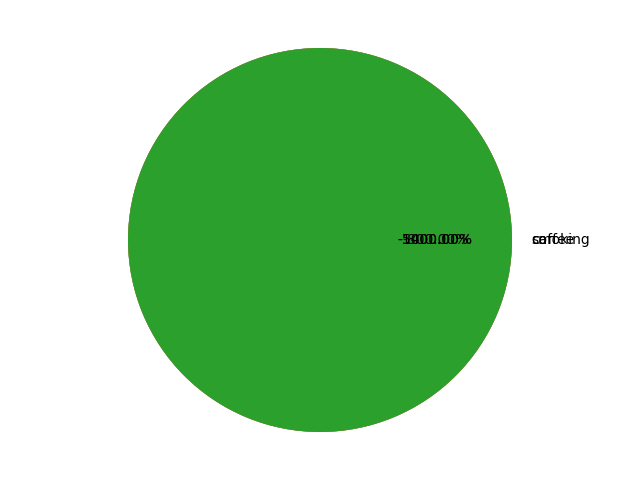
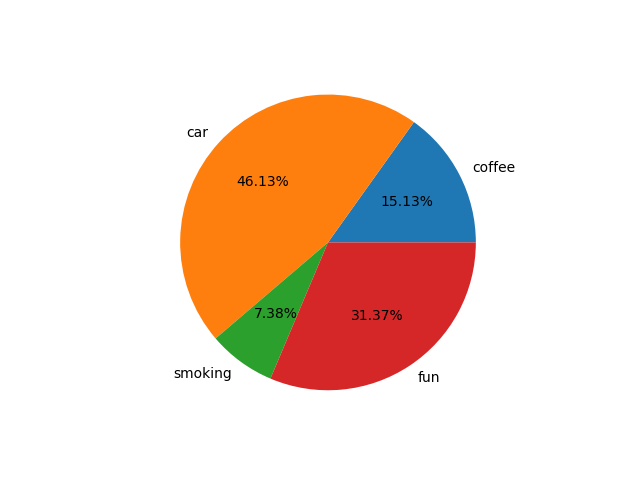
add Graph

diff --git a/app.py b/app.py
@@ -1,13 +1,15 @@
-from flask import Flask, jsonify, request, redirect, make_response, g
+import os
+from flask import Flask, jsonify, request, redirect, make_response
 from datetime import datetime, timedelta
 from werkzeug.security import generate_password_hash, check_password_hash
 import jwt
 import uuid
 from matplotlib import pyplot as plt
-from . import User, Transaction, application, db
+from __init__ import User, Transaction, application, db
 from middleware import token_required
 
-
+# Graph mode
+MODE = 4
 # ==================================================================================================
 # Entry Points
 # ==================================================================================================
@@ -73,7 +75,7 @@ def getAllUsers():
    return jsonify({'users': output}), 200
 
 
-@application.route('/user/<int:int:id>', methods=['DELETE'])
+@application.route('/user/<int:id>', methods=['DELETE'])
 @token_required
 def deleteUser(currentUser, id):
    """
@@ -147,33 +149,53 @@ def createGraph(currentUser):
    transs = Transaction.query.filter_by(userId=currentUser.id).all()
 
    dic = {}
-
    for trans in transs:
       # Check if the transaction is income or expense
       # Keep only the expenses
-      if not trans.income:
+      if trans.income:
+         continue
+
+      # Create a flag which indicate if the expense is in valid period
+      inDateFlag = True
+      if not application.config['MODE'] == 4:
+         if application.config['MODE'] ==3:
+            inDateFlag = datetime.utcnow().year == trans.date.year
+         elif application.config['MODE']==2:
+            inDateFlag = datetime.utcnow().year == trans.date.year \
+                     and datetime.utcnow().month == trans.date.month
+         elif application.config['MODE']==1:
+            inDateFlag = datetime.utcnow().date() == trans.date.date()
+      print(application.config['MODE'], inDateFlag)
+      # Check if the transaction is in valid period of time 
+      if not inDateFlag:
          continue
 
       # Add the amount of expense to its category in dictionary
       if trans.category in dic.keys():
-         dic[trans.category] = dic[trans.category] + temp
+         dic[trans.category] = dic[trans.category] + trans.amount
       else:
-         dic[trans.category] = -1 * trans.amount
+         dic[trans.category] = trans.amount
 
    # Create a pie chart for expenses
    fig = plt.figure()
-   ax.pie(dic.values(), labels=dic.keys(), autopct='%1.2f%%')
+   plt.pie(dic.values(), labels=dic.keys(), autopct='%1.2f%%')
    fig.savefig('my_plot.png')
+   cwd = os.getcwd()
+   return "<img src='"+ cwd +"/my_plot.png'>", 200
 
-   return "<img src='my_plot.png'>", 200
 
-
-@application.route('/home/<int:index>', methods=['GET'])
-def changeMode():
+@application.route('/home/<int:index>', methods=['POST'])
+def changeMode(index):
    """
    8. This function change the period of expenses that will be used of the pie
+      MODE = 4 ==> OVERALL
+      MODE = 3 ==> (YEAR, MONTH, DAY)
+      MODE = 2 ==> (MONTH, DAY)
+      MODE = 2 ==> (DAY)
    """
-   return "changeMode", 200
+   application.config['MODE'] = index
+
+   return "Mode Changed", 200
 
 
 @application.route('/trans', methods=['POST'])

diff --git a/middleware.py b/middleware.py
@@ -1,7 +1,7 @@
 from flask import jsonify, request, g
 from functools import wraps
 import jwt
-from . import User
+from __init__ import User, application
 
 
 def token_required(f):
@@ -13,15 +13,19 @@ def token_required(f):
       """
       token = None
 
-      # Check is there are token in request header
-      if 'token' in request.headers:
-         token = request.headers['token']
+      if 'token' in request.args:
+         token = request.args.get('token')
       else:
          return jsonify({'message': 'Token is missing!'}), 401
+      # Check is there are token in request header
+      # if 'token' in request.headers:
+      #    token = request.headers['token']
+      # else:
+      #    return jsonify({'message': 'Token is missing!'}), 401
 
       try:
          # Decode the token using the secret key and check if the user exists in database
-         data = jwt.decode(token, g.token)
+         data = jwt.decode(token, application.config['SECRET_KEY'] )
          currentUser = User.query.filter_by(publicId=data['publicId']).first()
       except:
          return jsonify({'message': 'Token is invalid!'}), 401

diff --git a/__init__.py b/__init__.py
@@ -1,5 +1,7 @@
 from flask import Flask, g
 from flask_sqlalchemy import SQLAlchemy
+from datetime import datetime
+
 
 # ==================================================================================================
 # Application Initialization
@@ -8,8 +10,8 @@ application = Flask(__name__)
 application.config['SQLALCHEMY_TRACK_MODIFICATIONS '] = False
 application.config['SQLALCHEMY_DATABASE_URI'] = 'sqlite:///mydb.db'
 db = SQLAlchemy(application)
-g.token = 'thisissecret'
-application.config['SECRET_KEY'] = g.token
+application.config['SECRET_KEY'] = 'thisissecret'
+application.config['MODE'] = 4
 
 
 # ==================================================================================================
